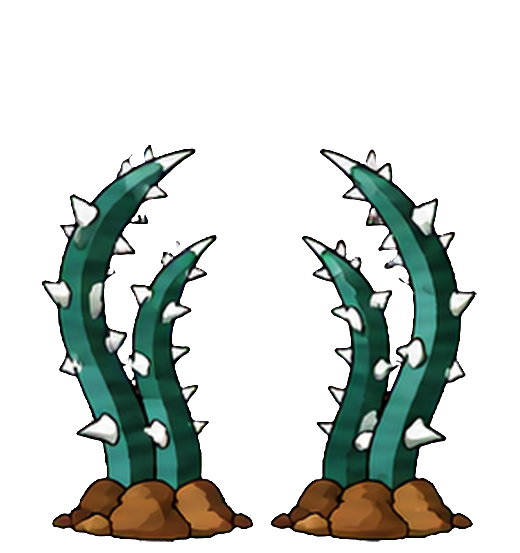
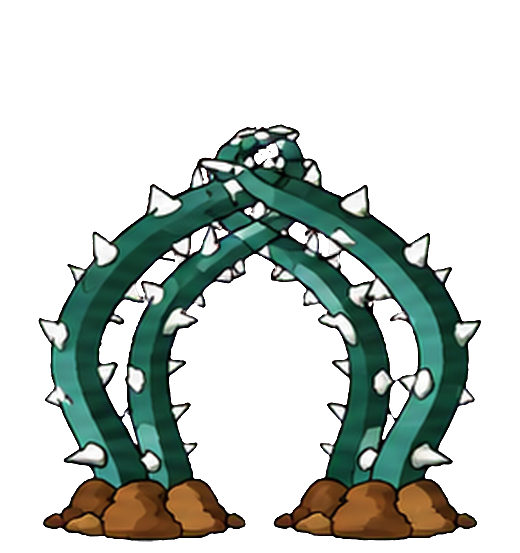
Thorn Tithe tuning: cage fades from the held dome instead of re-opening

Changed region(s): [[0.0615, 0.2152, 0.9231, 0.9837]]

diff --git a/Assets/_Project/Scripts/Tests/EditMode/Combat/ThornTithePresentationTests.cs b/Assets/_Project/Scripts/Tests/EditMode/Combat/ThornTithePresentationTests.cs
@@ -45,7 +45,8 @@ namespace PrincesPalace.Domain.Tests
                 Assert.AreEqual(341f, l.size, 1e-6f, "the dome is 442 of the 520 px canvas; 341 puts it 290 wide, a rat's body");
                 Assert.AreEqual(back.size, l.size, 1e-6f, "one cage: both sets on one canvas and one size");
                 Assert.AreEqual(back.impactY, l.impactY, 1e-6f, "one pivot at the base");
-                Assert.AreEqual(0.7f, l.seconds, 1e-6f, "6 growth frames, the cage held 4, 4 frames of sinking back: 14 at 20 fps");
+                Assert.AreEqual(0.5f, l.seconds, 1e-6f, "6 growth frames, then the dome (f6-f13 are all the dome): 0.5 s plays f0-f9 and the held dome fades after it");
+                Assert.AreEqual(0.28f, l.fade, 1e-6f, "the dome fades out in place, clear at 0.9 s");
             }
         }
 

diff --git a/docs/captures/spell_rework/after/thorn_tithe/NOTES.md b/docs/captures/spell_rework/after/thorn_tithe/NOTES.md
@@ -294,6 +294,15 @@ For the owner's review. On the rat it works: the crack shows (f4), canes break o
    options: sink from the dome's own frame with a fade, or draw sink frames.
 3. The dust burst at f8 is large and pale, the loudest thing before the cue.
 
+### Tuning after step 6 (2026-10-07; `thorn_tithe_tune_{rat,treant}_1x.gif`, strips beside it)
+
+Changed: recipes `thorn_tithe_back`/`_front` sequence now f0-f5 then the dome f6 held for f6-f13 (the backwards sway frames f10-f13 are gone; only
+those four PNGs per set changed). Layers `back`/`front`: `seconds` 0.7 to 0.5, `fade` 0.1 to 0.28, so the dome plays to 0.6 s and fades in place,
+clear at 0.9 s (cue 0.40 s unchanged, size unchanged).
+
+2. Cage re-opening at f38: **fixed**. Rat and treant, 0.60-0.90 s: the X and arch hold shape and thin out over the body; no tall open canes return.
+   It leaves by fading, it does not sink into the soil; sinking would need drawn frames. Items 1 and 3 (treant size, dust) not touched.
+
 ## Open owner questions
 
 Each asked once. Status: open, answered (with the answer), or dropped.
@@ -311,6 +320,7 @@ Each asked once. Status: open, answered (with the answer), or dropped.
 | Pass 1 (2026-10-04) | The 12-frame painted atlas; a sap-burst star accent | worker | not scored |
 | Pass 2 (2026-10-04) | The owner's painted four-frame growth sheet in two layers (`grow`, `back` mirrored at 0.5); cage as f3 of one `grow` layer because an `at: hit` sprite is a tail (`TailScale`, 0.6 of the growth); old accent removed; `back` mirrored (`facing: reverse`); badge lifted with `impactY` 0.36. Found: the cage was bigger than the treant and hid it, and slid down from half size instead of rising | worker; the owner's brief for this trial | not scored |
 | Round 1 (2026-10-07) | New design on the owner's flat-cel strips: recipes `thorn_tithe_back`/`_front` (E7 registration, shared canvas, arch feet registered with the single vines, retract frames baked); layers `back` (ground) and `front`, `dust`, `sap`, `leaves`; cue 0.30 to 0.40 and the cast sound re-cut; `vfx.kick`; no drift, no scale. Tuned within the round: size 330 to 290, sink by drift (-0.25) replaced by baked backward frames (the drift pushed the canes through the floor line in view) | worker (own frame sheets; `spell_feel`) | worker's score above; step 3 pending |
+| Tuning after step 6 (2026-10-07) | Sink frames replaced by the held dome, `seconds` 0.5, `fade` 0.28 | orchestrator's step 6 check | cage fades from the dome on both bodies |
 
 ## Measures
 
